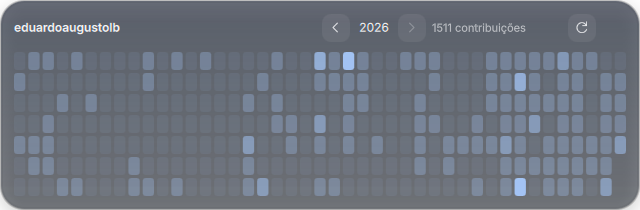
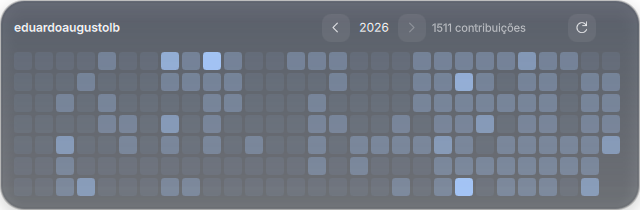
docs(plugins): document GitHub contribution API access

diff --git a/plugins/tahow-media/README.md b/plugins/tahow-media/README.md
@@ -6,7 +6,7 @@ Independent Ryoku desktopWidget plugin. No Tahow subshell is required. Simulated
 
 Reads pluginApi.pluginSettings with defaults. Settings and desktop placement are written by Ryoku's host; this plugin does not edit shared Tahow or host preferences. Right-click the tile to configure its material and available data options.
 
-Commands: none. Network: none. Privileged actions: none. 
+Commands: none. Network: none. Privileged actions: none.
 Reads MPRIS session bus state and local album art; playback controls run on explicit interaction.
 
 Install locally with `ryoku plugin add /path/to/tahow-media --yes`. In Stage Editor, add or move the desktop widget; drag to position, resize with the host handles, and right-click for settings. The manifest requests host backing `none` so the Tahow face supplies its own material. Runtime size comes from the content's implicit dimensions; the host adds its placement padding.

diff --git a/plugins/tahow-temperature/README.md b/plugins/tahow-temperature/README.md
@@ -6,7 +6,7 @@ Independent Ryoku desktopWidget plugin. No Tahow subshell is required. Simulated
 
 Reads pluginApi.pluginSettings with defaults. Settings and desktop placement are written by Ryoku's host; this plugin does not edit shared Tahow or host preferences. Right-click the tile to configure its material and available data options.
 
-Commands: bun. Network: none. Privileged actions: none. 
+Commands: bun. Network: none. Privileged actions: none.
 Reads available Linux /sys/class/hwmon and thermal sensors through the bundled Bun script.
 
 Install locally with `ryoku plugin add /path/to/tahow-temperature --yes`. In Stage Editor, add or move the desktop widget; drag to position, resize with the host handles, and right-click for settings. The manifest requests host backing `none` so the Tahow face supplies its own material. Runtime size comes from the content's implicit dimensions; the host adds its placement padding.

diff --git a/plugins/tahow-memory/README.md b/plugins/tahow-memory/README.md
@@ -6,7 +6,7 @@ Independent Ryoku desktopWidget plugin. No Tahow subshell is required. Simulated
 
 Reads pluginApi.pluginSettings with defaults. Settings and desktop placement are written by Ryoku's host; this plugin does not edit shared Tahow or host preferences. Right-click the tile to configure its material and available data options.
 
-Commands: none. Network: none. Privileged actions: none. 
+Commands: none. Network: none. Privileged actions: none.
 Reads Linux /proc counters; unavailable data is shown explicitly.
 
 Install locally with `ryoku plugin add /path/to/tahow-memory --yes`. In Stage Editor, add or move the desktop widget; drag to position, resize with the host handles, and right-click for settings. The manifest requests host backing `none` so the Tahow face supplies its own material. Runtime size comes from the content's implicit dimensions; the host adds its placement padding.

diff --git a/plugins/tahow-cpu/README.md b/plugins/tahow-cpu/README.md
@@ -6,7 +6,7 @@ Independent Ryoku desktopWidget plugin. No Tahow subshell is required. Simulated
 
 Reads pluginApi.pluginSettings with defaults. Settings and desktop placement are written by Ryoku's host; this plugin does not edit shared Tahow or host preferences. Right-click the tile to configure its material and available data options.
 
-Commands: none. Network: none. Privileged actions: none. 
+Commands: none. Network: none. Privileged actions: none.
 Reads Linux /proc counters; unavailable data is shown explicitly.
 
 Install locally with `ryoku plugin add /path/to/tahow-cpu --yes`. In Stage Editor, add or move the desktop widget; drag to position, resize with the host handles, and right-click for settings. The manifest requests host backing `none` so the Tahow face supplies its own material. Runtime size comes from the content's implicit dimensions; the host adds its placement padding.

diff --git a/plugins/tahow-github/README.md b/plugins/tahow-github/README.md
@@ -6,7 +6,7 @@ Independent Ryoku desktopWidget plugin. No Tahow subshell is required. Simulated
 
 Reads pluginApi.pluginSettings with defaults. Settings and desktop placement are written by Ryoku's host; this plugin does not edit shared Tahow or host preferences. Right-click the tile to configure its material and available data options.
 
-Commands: none. Network: none. Privileged actions: none. 
+Commands: none. Network: github-contributions-api.jogruber.de (public contributions). Privileged actions: none.
 
 
 Install locally with `ryoku plugin add /path/to/tahow-github --yes`. In Stage Editor, add or move the desktop widget; drag to position, resize with the host handles, and right-click for settings. The manifest requests host backing `none` so the Tahow face supplies its own material. Runtime size comes from the content's implicit dimensions; the host adds its placement padding.

diff --git a/plugins/tahow-disk/README.md b/plugins/tahow-disk/README.md
@@ -6,7 +6,7 @@ Independent Ryoku desktopWidget plugin. No Tahow subshell is required. Simulated
 
 Reads pluginApi.pluginSettings with defaults. Settings and desktop placement are written by Ryoku's host; this plugin does not edit shared Tahow or host preferences. Right-click the tile to configure its material and available data options.
 
-Commands: df. Network: none. Privileged actions: none. 
+Commands: df. Network: none. Privileged actions: none.
 Reads filesystem capacity through df.
 
 Install locally with `ryoku plugin add /path/to/tahow-disk --yes`. In Stage Editor, add or move the desktop widget; drag to position, resize with the host handles, and right-click for settings. The manifest requests host backing `none` so the Tahow face supplies its own material. Runtime size comes from the content's implicit dimensions; the host adds its placement padding.

diff --git a/plugins/tahow-clock/README.md b/plugins/tahow-clock/README.md
@@ -6,7 +6,7 @@ Independent Ryoku desktopWidget plugin. No Tahow subshell is required. Simulated
 
 Reads pluginApi.pluginSettings with defaults. Settings and desktop placement are written by Ryoku's host; this plugin does not edit shared Tahow or host preferences. Right-click the tile to configure its material and available data options.
 
-Commands: none. Network: none. Privileged actions: none. 
+Commands: none. Network: none. Privileged actions: none.
 
 
 Install locally with `ryoku plugin add /path/to/tahow-clock --yes`. In Stage Editor, add or move the desktop widget; drag to position, resize with the host handles, and right-click for settings. The manifest requests host backing `none` so the Tahow face supplies its own material. Runtime size comes from the content's implicit dimensions; the host adds its placement padding.
